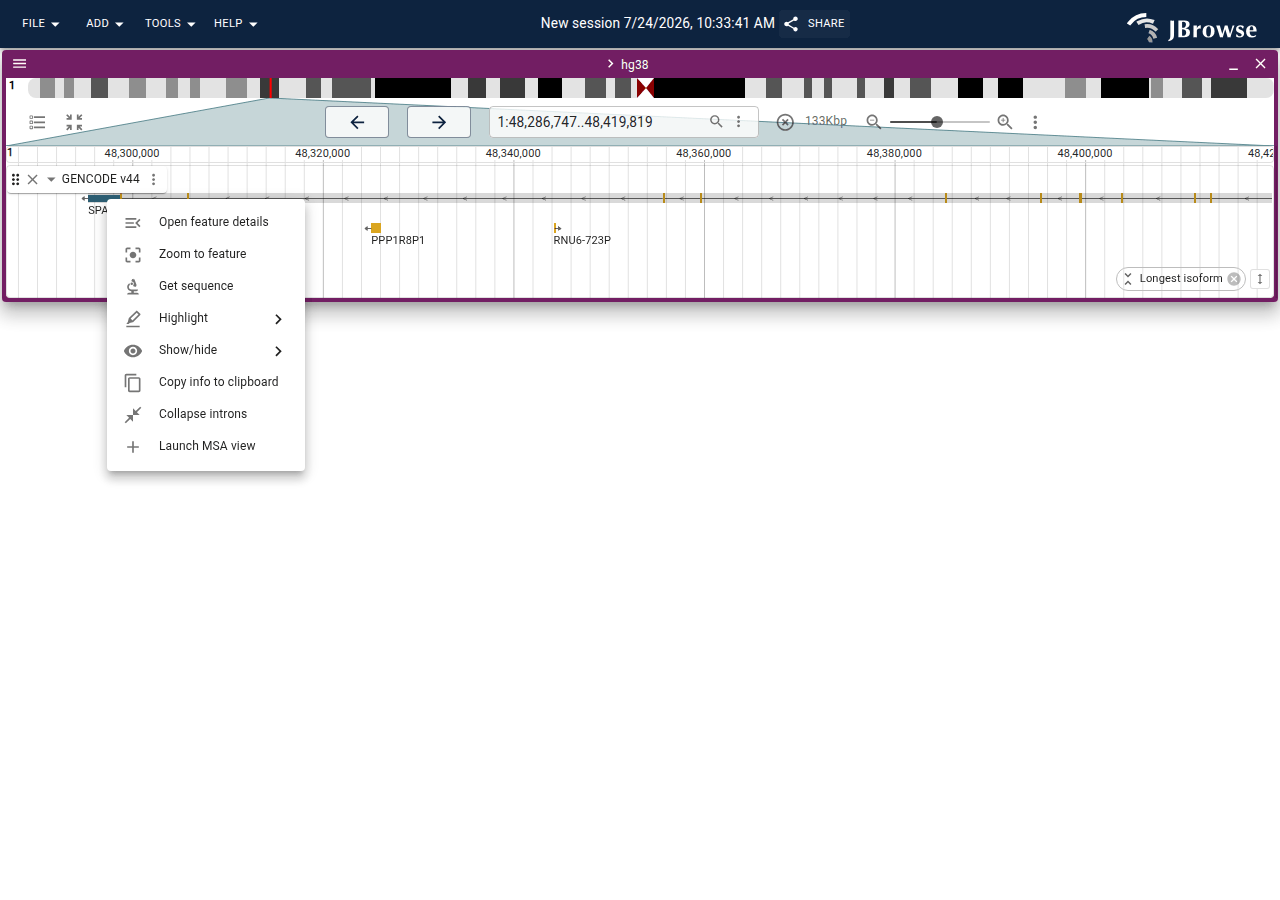
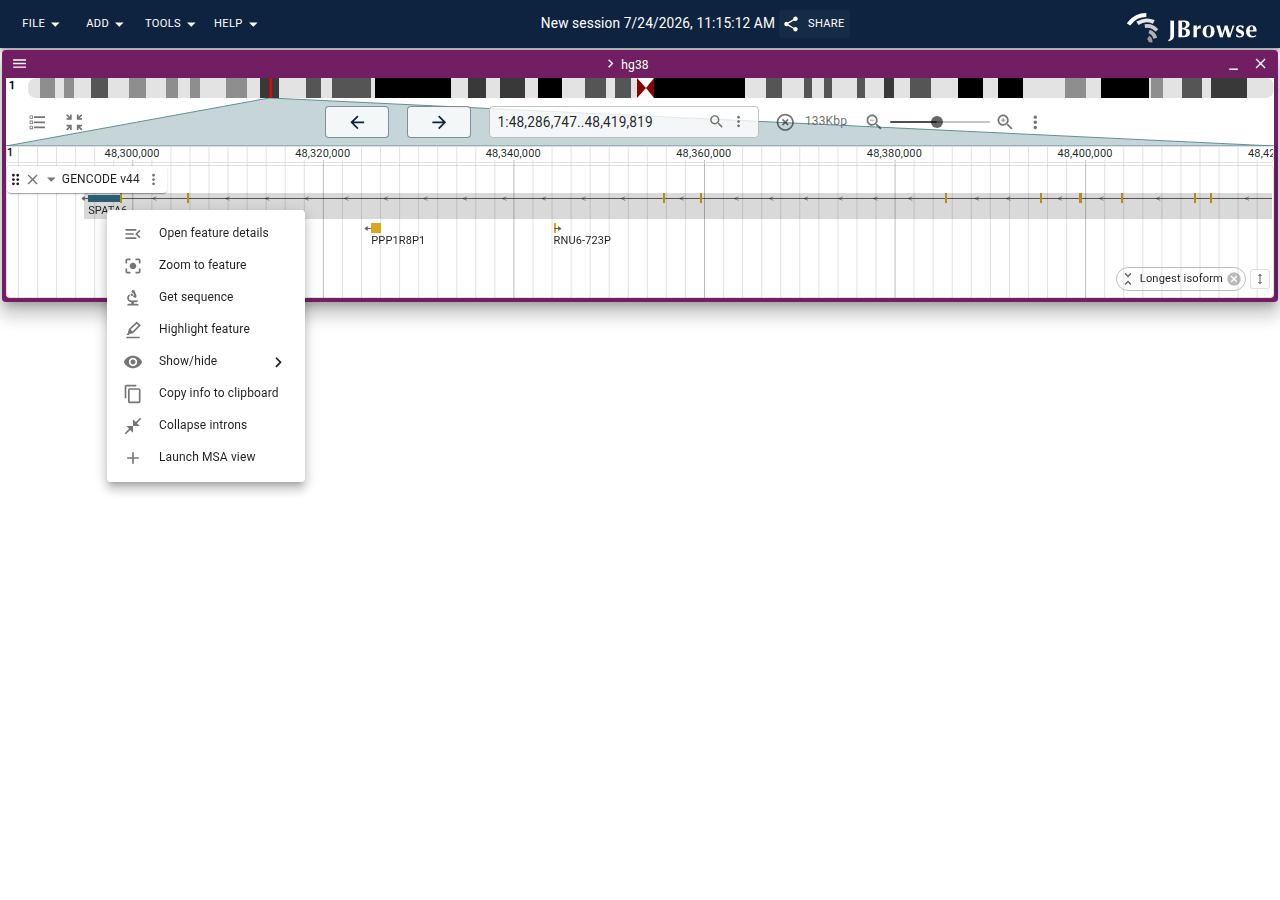
test: right-click the SPATA6 label center instead of a glyph offset
The canvas hit index widens each feature's box to cover its label
(hitTesting.ts), so the label's own bounds are guaranteed inside the feature's
hit region. Clicking the label center removes the earlier reliance on a fixed
pixel offset above the label.

Changed region(s): [[0.0625, 0.2178, 1.0, 0.56], [0.5312, 0.0, 0.5938, 0.0311]]

diff --git a/test/transcriptSelector.test.ts b/test/transcriptSelector.test.ts
@@ -96,8 +96,9 @@ describe('TranscriptSelector E2E', () => {
     await new Promise(r => setTimeout(r, 3000))
     await saveScreenshot(p, getScreenshotPath('03-after-search'))
 
-    // Features render on a canvas with an HTML label below each glyph. Find the
-    // SPATA6 label, then target the glyph just above it.
+    // Features paint on a canvas; each label is an HTML element whose bounds sit
+    // inside the feature's hit box (the canvas hit index widens each feature to
+    // cover its label). So clicking the SPATA6 label's center hit-tests to it.
     const clickTarget = await p.evaluate(() => {
       for (const el of Array.from(
         document.querySelectorAll('div, span, text, tspan'),
@@ -109,7 +110,7 @@ describe('TranscriptSelector E2E', () => {
         if (own.includes('SPATA6') && !own.includes('SPATA6L')) {
           const bbox = el.getBoundingClientRect()
           if (bbox.y > 150 && bbox.y < 500 && bbox.width > 0) {
-            return { x: bbox.x + bbox.width / 2, y: bbox.y - 6 }
+            return { x: bbox.x + bbox.width / 2, y: bbox.y + bbox.height / 2 }
           }
         }
       }
